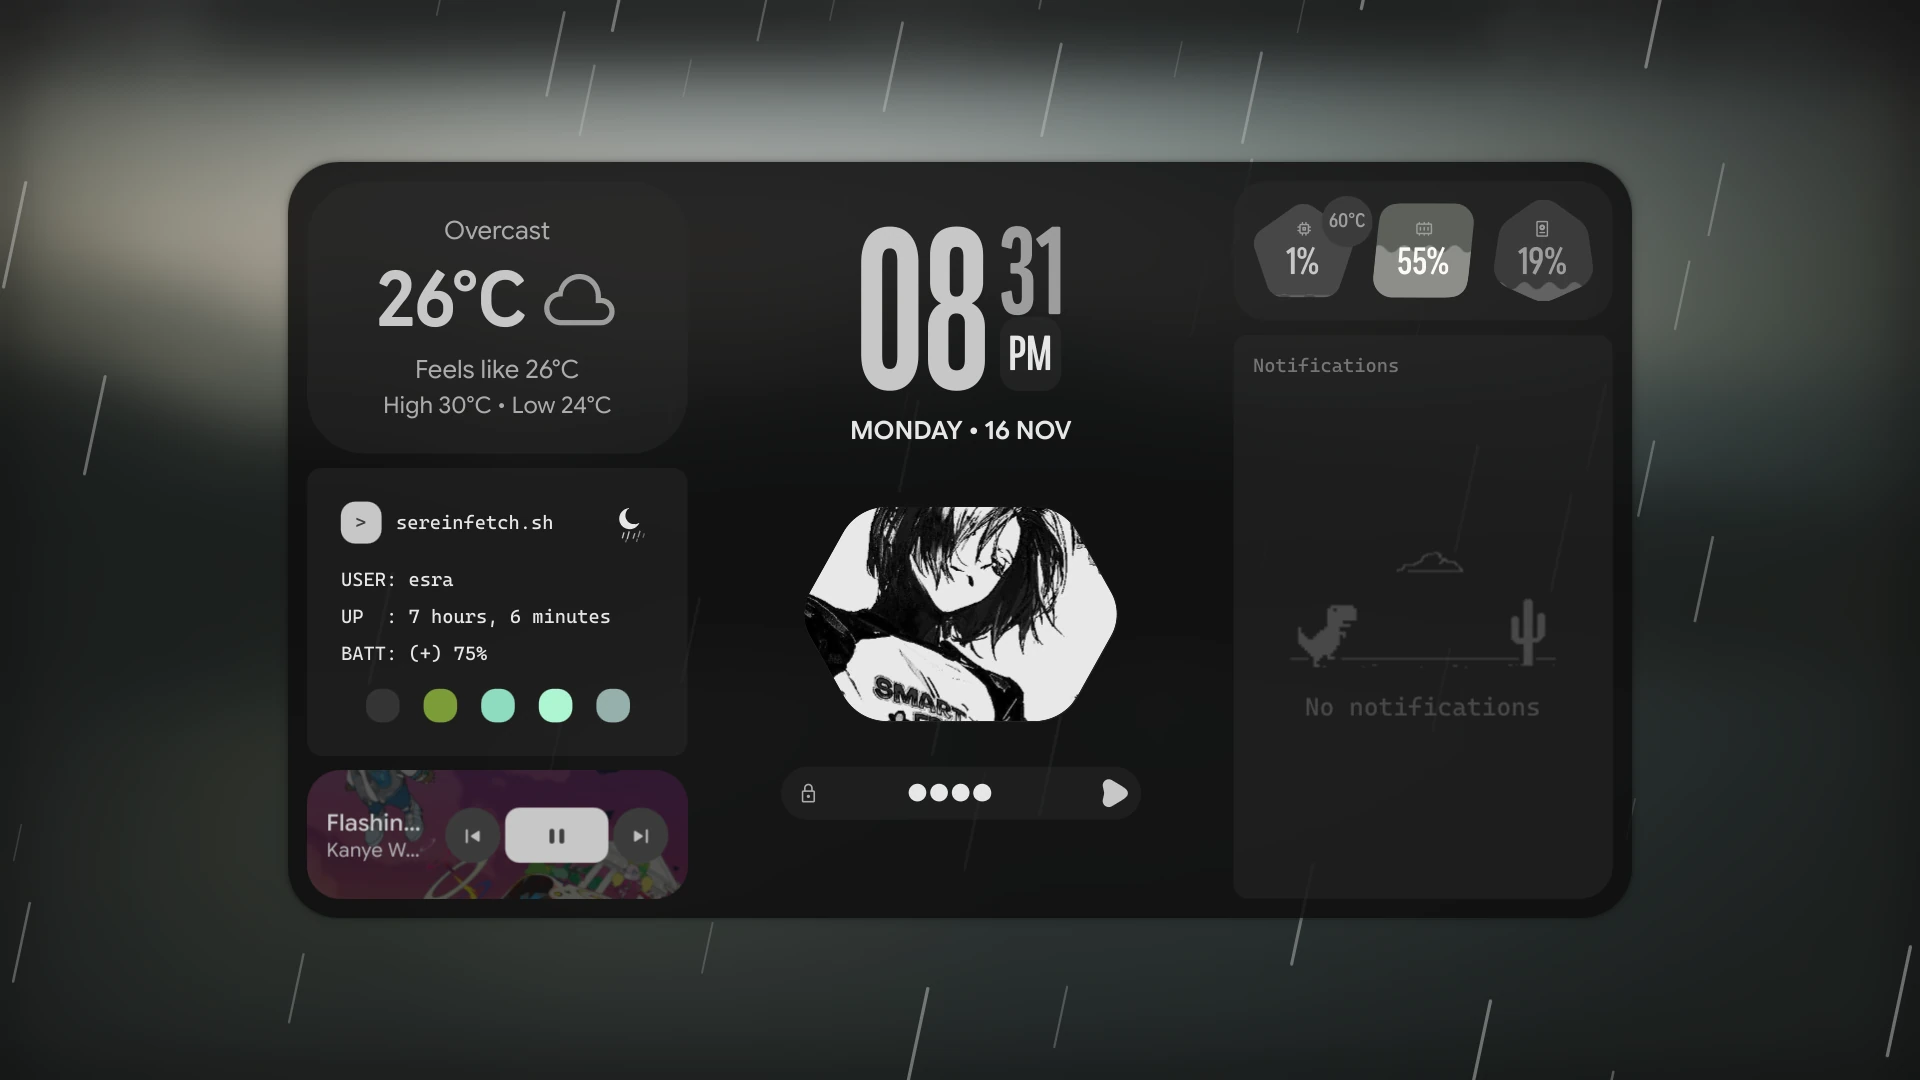
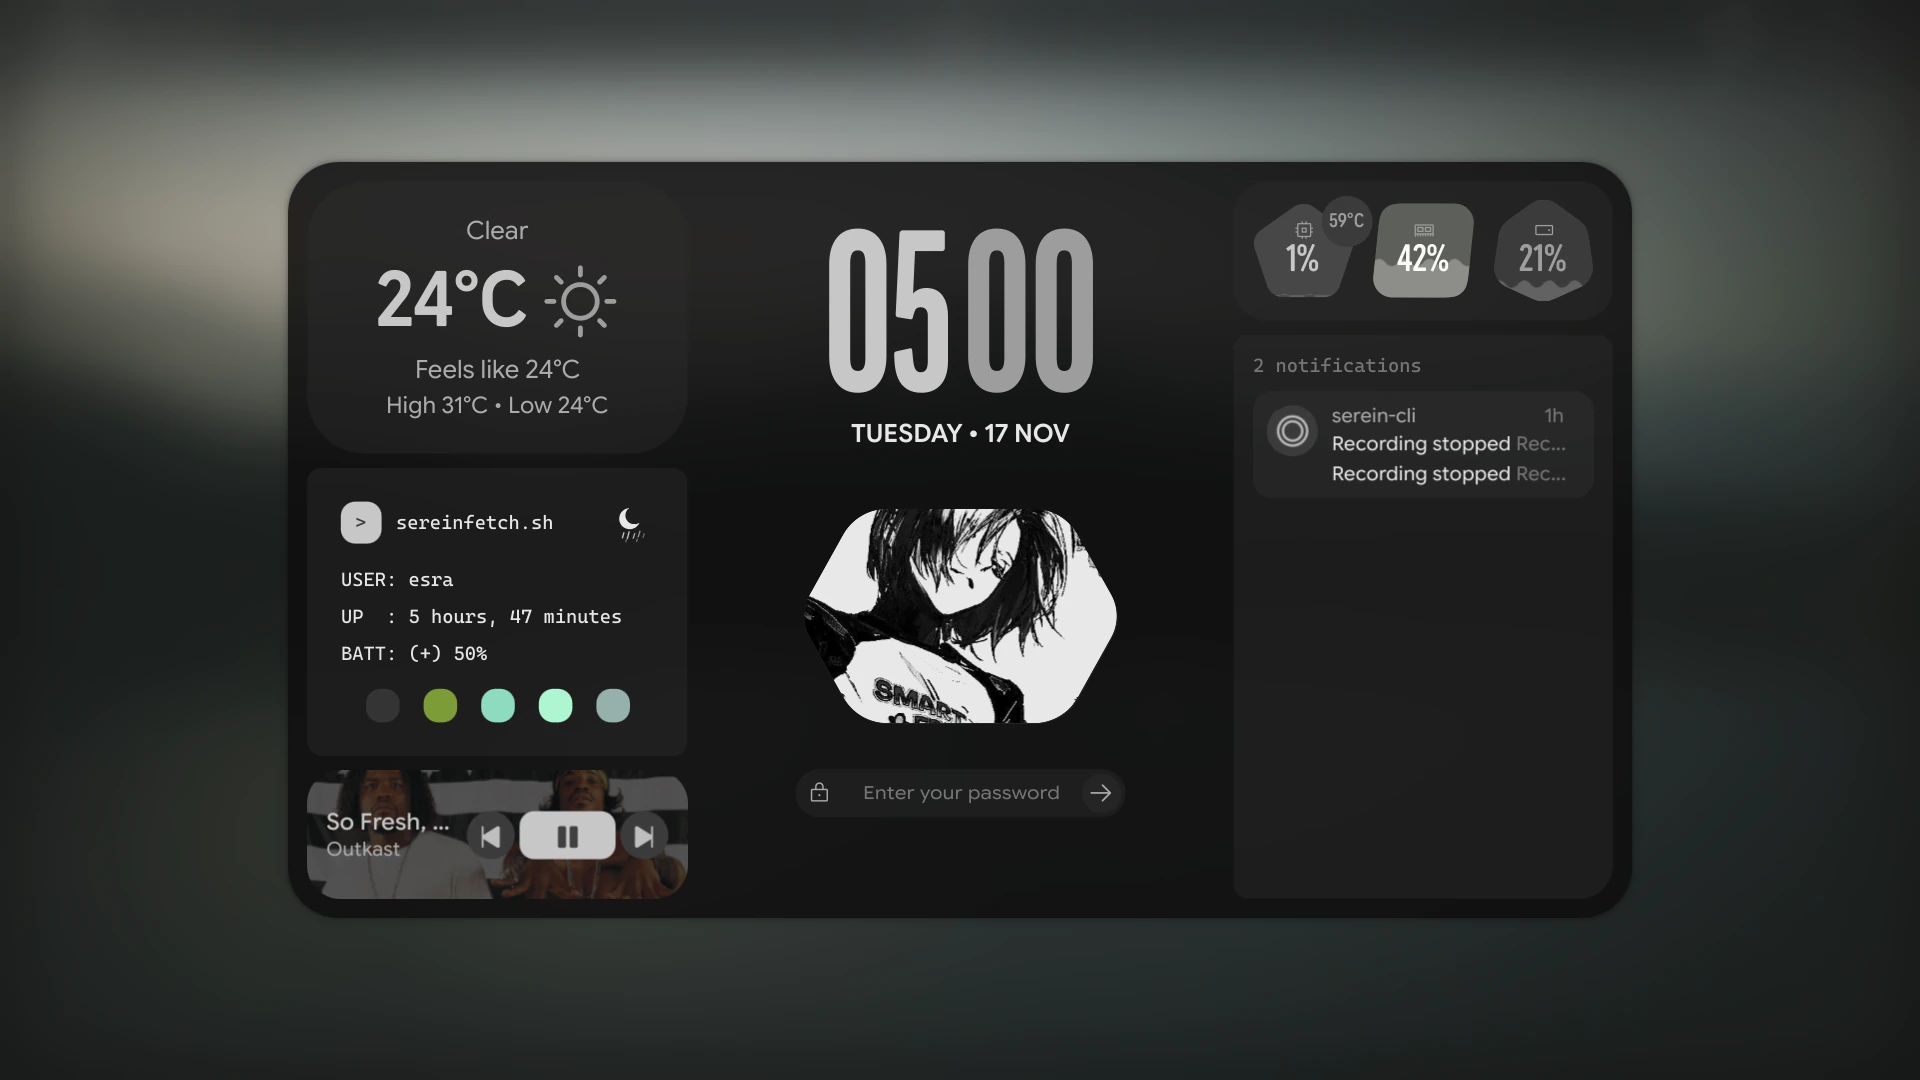
update

diff --git a/README.md b/README.md
@@ -27,14 +27,10 @@ bar with a wavy seek bar and Shuffle / Repeat chips.*
 *The desktop: a bar that follows the panel (transparent when transparency is on), with the windows kept a little
 away from the frame.*
 
-![Serein lock screen: fine rain over the blurred background, weather, sereinfetch, media card, clock, resources and notifications](docs/screenshots/lock.webp)
+![Serein lock screen: weather, sereinfetch, media card, a big clock with your picture and the password field, the resources and notifications](docs/screenshots/lock.webp)
 
-*The lock screen, with the falling rain and the compact media card.*
-
-![Serein dashboard, Workspaces tab: a grid of workspaces with live previews of their windows, on a top bar](docs/screenshots/workspaces.webp)
-
-*The Workspaces tab of the dashboard (here with the bar on the top edge): live previews of every workspace.
-Click a workspace or a window to jump to it, or drag a window onto another workspace to move it.*
+*The lock screen: weather, sereinfetch and the compact media card on the left, the clock and your picture in the
+middle, resources and notifications on the right, over the blurred wallpaper.*
 
 ## What is different from Caelestia
 
